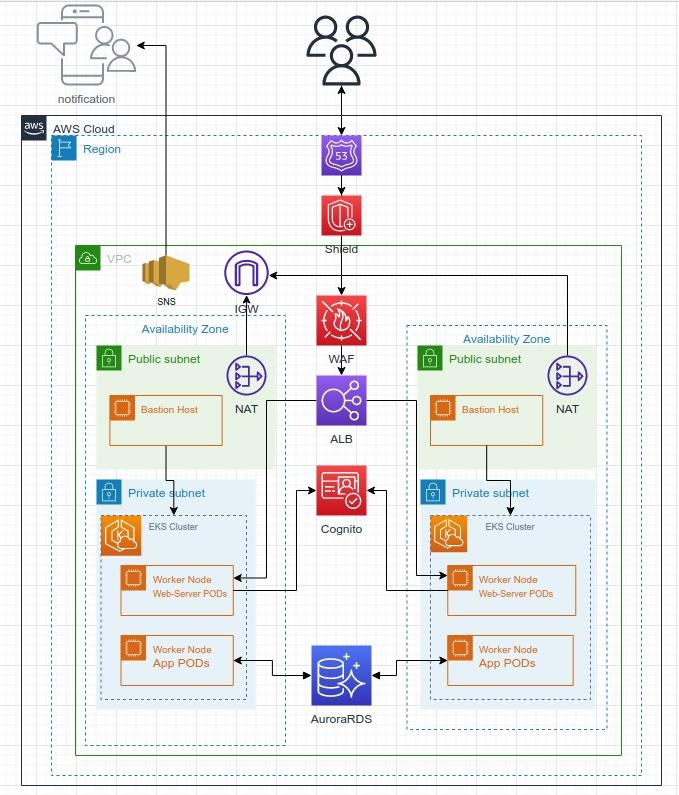
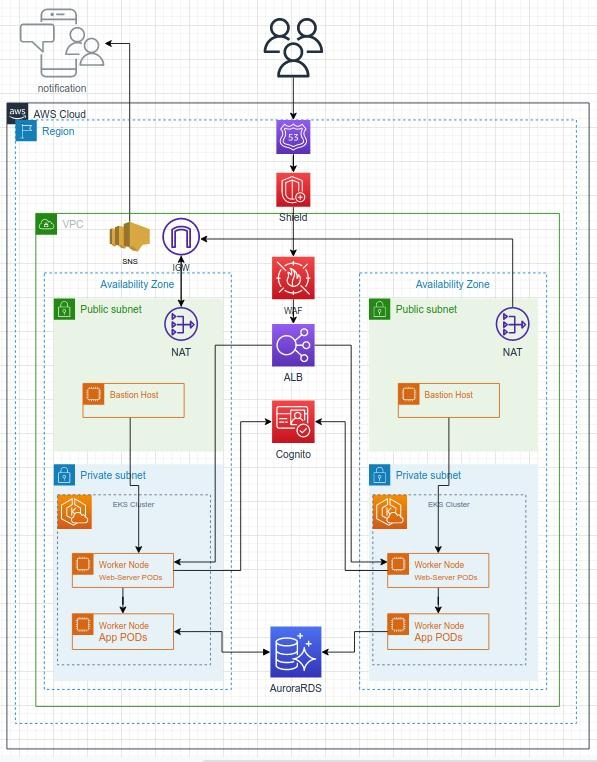
Update

Changed region(s): [[0.0, 0.0, 1.0, 1.0]]

diff --git a/ArchSpec.md b/ArchSpec.md
@@ -27,11 +27,11 @@
   - ALB
   - Bastion server to login to the EKS Cluster
   - NAT gateway in order to have route from the private OUT to the internet
-  - K8S worker node for web servers pods for incoming traffic which go through AWS WAF(firewall)
 - In the `private` subnet we will have:
   - Aurora RDS
   - EKS Control plane and ETCD
   - EKS worker node which contains the app PODs
+  - K8S worker node for web servers pods for incoming traffic which go through AWS WAF(firewall)
 
 ## Authentication
 

diff --git a/README.md b/README.md
@@ -1,5 +1,7 @@
 # [Architecture Assignment](https://app.diagrams.net/#Hshay79il%2FCloudArch%2Fmain%2FPizza_order.drawio)
 
+# ![Architecture](Arch.jpeg)
+
 ## The Storyline - Pizza Order Website
 
 We have a company that has a website for ordering Pizza.
@@ -53,5 +55,8 @@ kind create cluster --config kind-config.yaml
 ```
 
 ```docker
+docker build -t shay79il/pizza:1.0.0 ./app
+docker push shay79il/pizza:1.0.0
+
 docker run -p 5000:5000 -d --name pizzaOrder shay79il/pizza
 ```
